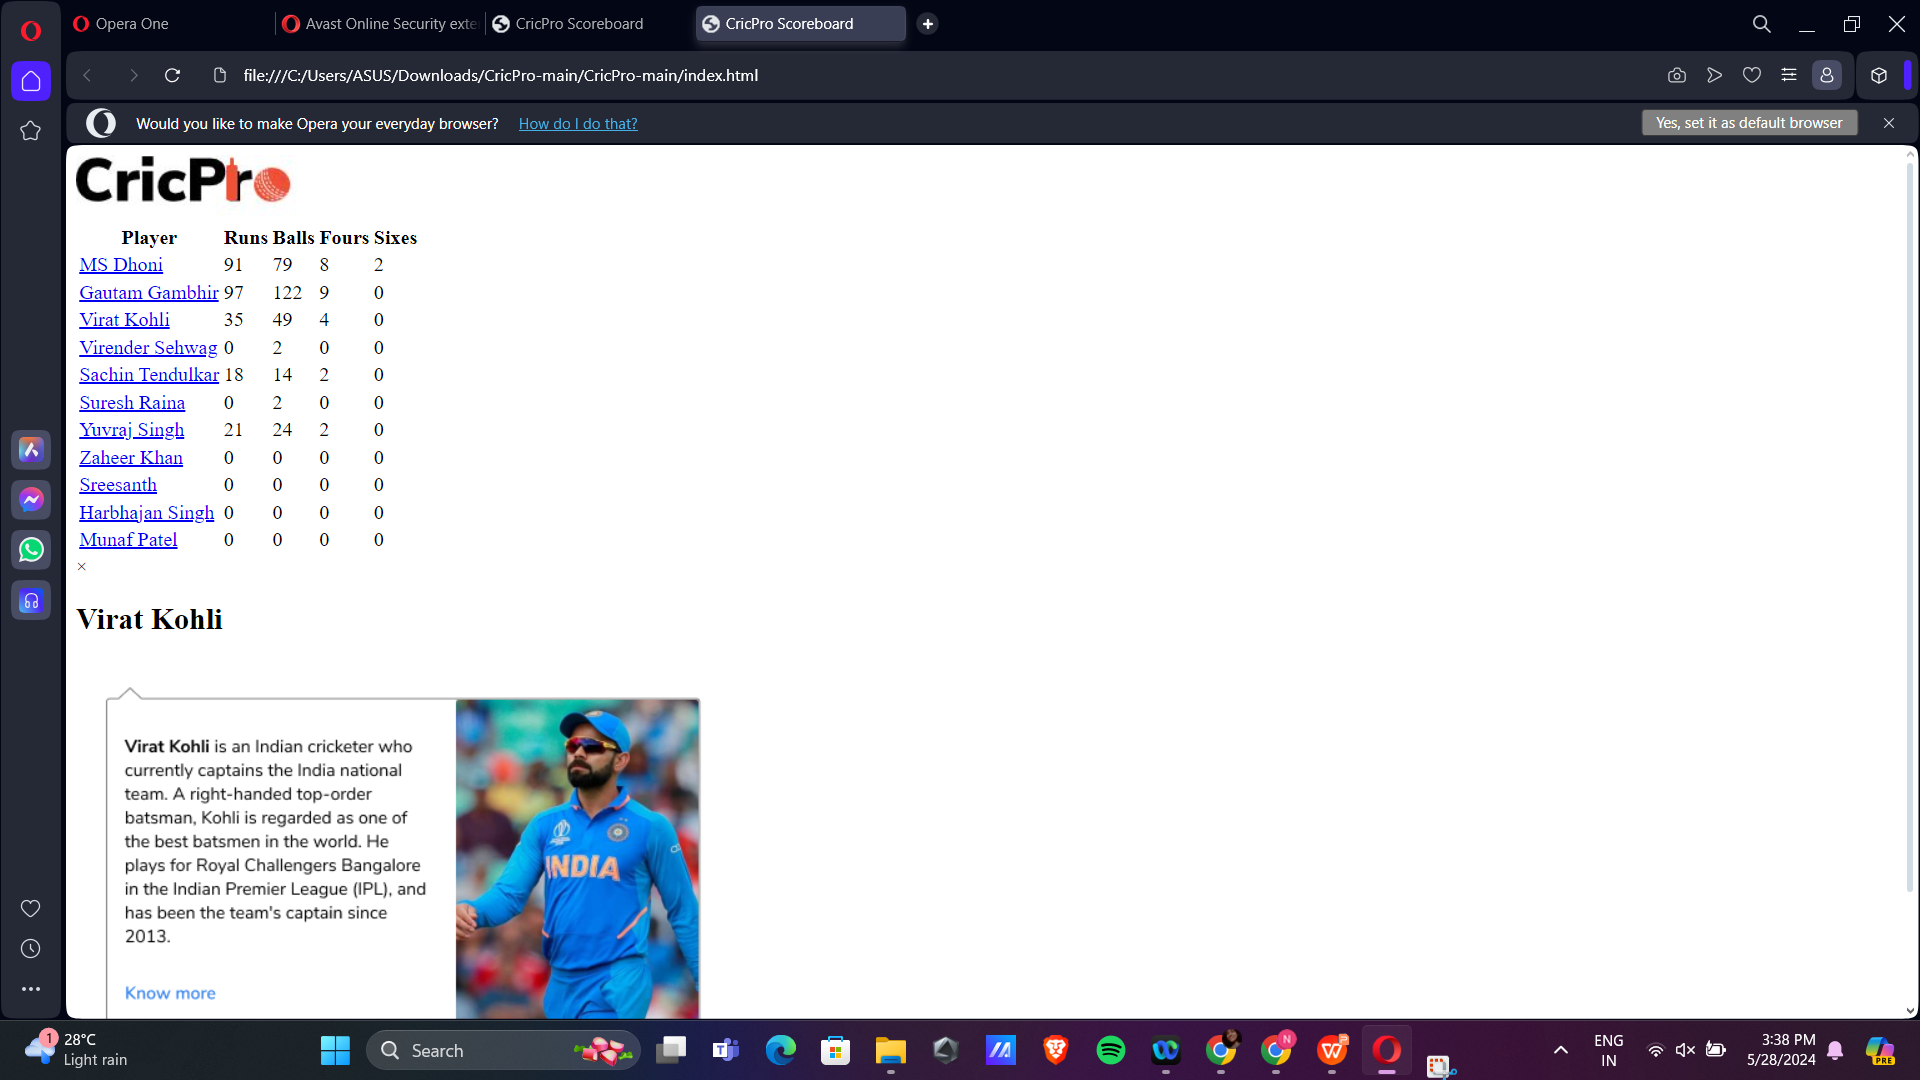
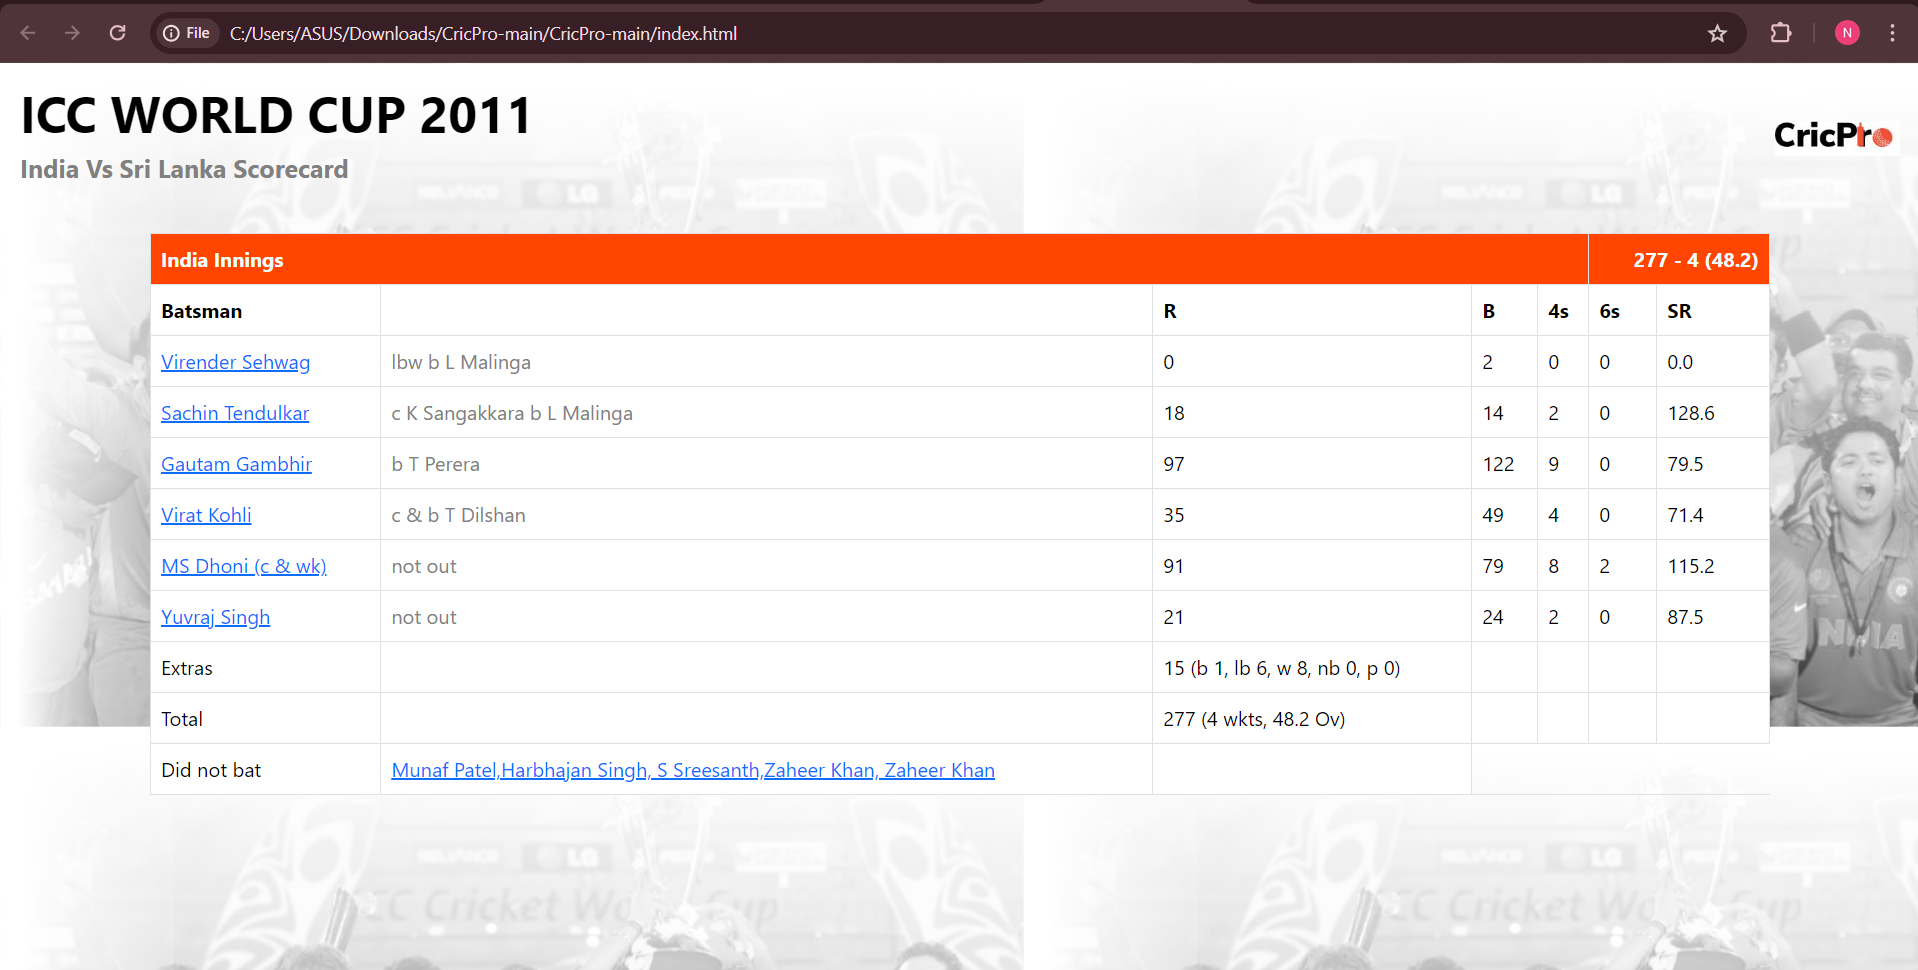
Add files via upload

diff --git a/index.html b/index.html
@@ -1,0 +1,220 @@
+<!DOCTYPE html>
+<html lang="en">
+<head>
+  <meta charset="UTF-8">
+  <meta name="viewport" content="width=device-width, initial-scale=1.0">
+  <title>CricPro Scoreboard</title>
+  <link href="https://cdn.jsdelivr.net/npm/bootstrap@5.3.3/dist/css/bootstrap.min.css" rel="stylesheet" integrity="sha384-QWTKZyjpPEjISv5WaRU9OFeRpok6YctnYmDr5pNlyT2bRjXh0JMhjY6hW+ALEwIH" crossorigin="anonymous">
+  <link rel="stylesheet" href="styles.css">
+</head>
+<body background="https://s3.ap-south-1.amazonaws.com/kalvi-education.github.io/front-end-web-development/cricpro-bg.png">
+  <div class="container-fluid p-3">
+    <div class="row align-items-center">
+      <div class="col-md-8">
+        <h1 class="text-black" style="font-weight: bolder;">ICC WORLD CUP 2011</h1>
+        <h5 class="text" style="color: gray; font-weight: bold;">India Vs Sri Lanka Scorecard</h5>
+      </div>
+      <div class="col-md-4 text-end">
+        <img src="https://s3.ap-south-1.amazonaws.com/kalvi-education.github.io/front-end-web-development/cricpro-logo.JPG" alt="CricPro Logo" class="img-fluid" style="max-width: 100px;">
+      </div>
+    </div>
+  </div>
+
+  <div class="container my-3">
+    <table class="table table-bordered table-hover">
+      <thead class="bg-orange text-white">
+        <tr>
+          <th colspan="5" style="background-color: orangered;color: azure;">India Innings</th>
+          <th colspan="2" class="text-end" style="background-color: orangered; color: azure;">277 - 4 (48.2)</th>
+        </tr>
+        <tr class="bg-white">
+          <th>Batsman</th>
+          <th></th>
+          <th>R</th>
+          <th>B</th>
+          <th>4s</th>
+          <th>6s</th>
+          <th>SR</th>
+        </tr>
+      </thead>
+      <tbody>
+        <tr>
+          <td><a href="https://s3.ap-south-1.amazonaws.com/kalvi-education.github.io/front-end-web-development/cricpro-gambhir.png',
+            'description" class="player-name" data-player="sehwag">Virender Sehwag</a></td>
+          <td style="color: gray;">lbw b L Malinga</td>
+          <td>0</td>
+          <td>2</td>
+          <td>0</td>
+          <td>0</td>
+          <td>0.0</td>
+        </tr>
+        <tr>
+          <td><a href="#" class="player-name" data-player="tendulkar">Sachin Tendulkar</a></td>
+          <td style="color: gray;">c K Sangakkara b L Malinga</td>
+          <td>18</td>
+          <td>14</td>
+          <td>2</td>
+          <td>0</td>
+          <td>128.6</td>
+        </tr>
+        <tr>
+          <td><a href="#" class="player-name" data-player="gambhir">Gautam Gambhir</a></td>
+          <td style="color: gray;">b T Perera</td>
+          <td>97</td>
+          <td>122</td>
+          <td>9</td>
+          <td>0</td>
+          <td>79.5</td>
+        </tr>
+        <tr>
+          <td><a href="#" class="player-name" data-player="kohli">Virat Kohli</a></td>
+          <td style="color: gray;">c & b T Dilshan </td>
+          <td>35</td>
+          <td>49</td>
+          <td>4</td>
+          <td>0</td>
+          <td>71.4</td>
+        </tr>
+        <tr>
+          <td><a href="#" class="player-name" data-player="dhoni">MS Dhoni (c & wk)</a></td>
+          <td style="color: gray;">not out</td>
+          <td>91</td>
+          <td>79</td>
+          <td>8</td>
+          <td>2</td>
+          <td>115.2</td>
+        </tr>
+        <tr>
+          <td><a href="#" class="player-name" data-player="yuvraj">Yuvraj Singh</a></td>
+          <td style="color: gray;">not out</td>
+          <td>21</td>
+          <td>24</td>
+          <td>2</td>
+          <td>0</td>
+          <td>87.5</td>
+        </tr>
+        <tr>
+          <td>Extras </td>
+          <td></td>
+          <td>15 (b 1, lb 6, w 8, nb 0, p 0)</td> 
+          <td></td>   
+          <td></td>  
+          <td></td>  
+          <td></td>           
+        </tr>
+        <tr>
+          <td>Total </td>
+          <td></td>
+          <td>277 (4 wkts, 48.2 Ov)</td>   
+          <td></td>   
+          <td></td>  
+          <td></td>  
+          <td></td>       
+        </tr>
+        <tr>
+          <td>Did not bat </td>
+          <td><a href="#" class="player-name" data-player="munaf,harbhajan,sreesanth,zaheer,raina">Munaf Patel,Harbhajan Singh, S Sreesanth,Zaheer Khan, Zaheer Khan </a></td>
+          <td></td>           
+        </tr>
+      </tbody>
+    </table>
+  </div>
+
+  <div id="playerModal" class="modal">
+    <div class="modal-dialog">
+      <div class="modal-content">
+        <div class="modal-header">
+          <h5 class="modal-title" id="playerModalLabel">Player Details</h5>
+          <button type="button" class="btn-close" data-bs-dismiss="modal" aria-label="Close"></button>
+        </div>
+        <div class="modal-body" id="playerDetails">
+          <!-- Player details will be populated here -->
+        </div>
+      </div>
+    </div>
+  </div>
+
+  <script>
+    document.querySelectorAll('.player-name').forEach(item => {
+      item.addEventListener('click', event => {
+        event.preventDefault();
+        const playerName = event.target.dataset.player;
+        showPlayerDetails(playerName);
+      });
+    });
+
+    function showPlayerDetails(player) {
+      const playerDetails = {
+        'dhoni': {
+          'name': 'MS Dhoni',
+          'image': 'https://s3.ap-south-1.amazonaws.com/kalvi-education.github.io/front-end-web-development/cricpro-dhoni.png',
+          'description': 'MS Dhoni, the captain cool, played a match-winning knock of 91 not out in the final.'
+        },
+        'gambhir': {
+          'name': 'Gautam Gambhir',
+          'image': 'https://s3.ap-south-1.amazonaws.com/kalvi-education.github.io/front-end-web-development/cricpro-gambhir.png',
+          'description': 'Gautam Gambhir scored a crucial 97 runs that set the platform for India\'s victory.'
+        },
+        'kohli': {
+          'name': 'Virat Kohli',
+          'image': 'https://s3.ap-south-1.amazonaws.com/kalvi-education.github.io/front-end-web-development/cricpro-virat-kohli.png',
+          'description': 'Virat Kohli supported Gambhir well with a steady innings of 35 runs.'
+        },
+        'sehwag': {
+          'name': 'Virender Sehwag',
+          'image': 'https://s3.ap-south-1.amazonaws.com/kalvi-education.github.io/front-end-web-development/cricpro-sehwag.png',
+          'description': 'Virender Sehwag was dismissed early without scoring, but his aggressive intent was clear.'
+        },
+        'tendulkar': {
+          'name': 'Sachin Tendulkar',
+          'image': 'https://s3.ap-south-1.amazonaws.com/kalvi-education.github.io/front-end-web-development/cricpro-sachin.png',
+          'description': 'Sachin Tendulkar, the master blaster, scored 18 runs before being dismissed.'
+        },
+        'raina': {
+          'name': 'Suresh Raina',
+          'image': 'https://s3.ap-south-1.amazonaws.com/kalvi-education.github.io/front-end-web-development/cricpro-suresh-raina.jpg',
+          'description': 'Suresh Raina, the middle-order batsman, did not get much opportunity to bat in the final.'
+        },
+        'yuvraj': {
+          'name': 'Yuvraj Singh',
+          'image': 'https://s3.ap-south-1.amazonaws.com/kalvi-education.github.io/front-end-web-development/cricpro-yuvraj.png',
+          'description': 'Yuvraj Singh, the hero of the tournament, contributed 21 valuable runs.'
+        },
+        'zaheer': {
+          'name': 'Zaheer Khan',
+          'image': 'https://s3.ap-south-1.amazonaws.com/kalvi-education.github.io/front-end-web-development/cricpro-zaheer-khan.jpg',
+          'description': 'Zaheer Khan, the spearhead of the bowling attack, didn\'t get a chance to bat in the final.'
+        },
+        'sreesanth': {
+          'name': 'Sreesanth',
+          'image': 'https://s3.ap-south-1.amazonaws.com/kalvi-education.github.io/front-end-web-development/cricpro-sreeshanth.jpg',
+          'description': 'Sreesanth, known for his pace bowling, didn\'t get a chance to bat in the final.'
+        },
+        'harbhajan': {
+          'name': 'Harbhajan Singh',
+          'image': 'https://s3.ap-south-1.amazonaws.com/kalvi-education.github.io/front-end-web-development/cricpro-harbhajan.jpg',
+          'description': 'Harbhajan Singh, the turbanator, played a crucial role with the ball in the tournament.'
+        },
+        'munaf': {
+          'name': 'Munaf Patel',
+          'image': 'https://s3.ap-south-1.amazonaws.com/kalvi-education.github.io/front-end-web-development/cricpro-munaf-patel.jpg',
+          'description': 'Munaf Patel, the reliable pacer, didn\'t get a chance to bat in the final.'
+        }
+      };
+
+      const details = playerDetails[player];
+      if (details) {
+        document.getElementById('playerDetails').innerHTML = `
+          <h2>${details.name}</h2>
+          <img src="${details.image}" alt="${details.name}" class="img-fluid mb-3">
+          <p>${details.description}</p>
+        `;
+        const modal = new bootstrap.Modal(document.getElementById('playerModal'));
+        modal.show();
+      }
+    }
+  </script>
+  <script src="https://cdn.jsdelivr.net/npm/@popperjs/core@2.11.6/dist/umd/popper.min.js" integrity="sha384-oBqDVmMz4fnFO9gybVuL/Z7GU6hnh49r+IKRj8p6g5Dk5pZdoxI2P6O/sZeRUR/u" crossorigin="anonymous"></script>
+  <script src="https://cdn.jsdelivr.net/npm/bootstrap@5.3.3/dist/js/bootstrap.min.js" integrity="sha384-qjrxC8WMAtH+UsDCD1EdUlfP+qv2pNT9mZz8z38lKI+kG4ErSmMFsyMfJ/l4cvWv" crossorigin="anonymous"></script>
+</body>
+</html>

diff --git a/style.css b/style.css
@@ -5,10 +5,63 @@ body {
   margin: 0;
   padding: 0;
 }
+body {
+  background-image: url('https://s3.ap-south-1.amazonaws.com/kalvi-education.github.io/front-end-web-development/cricpro-bg.png');
+  background-size: cover;
+  font-family: 'Nunito Sans', sans-serif;
+  margin: 0;
+  padding: 0;
+}
 
-.logo {
-  text-align: center;
-  margin: 20px 0;
+.text-white {
+  color: #fff;
+}
+
+.bg-orange {
+  background-color: #ff6600 !important;
+}
+
+.modal-content {
+  background-color: #fefefe;
+  padding: 20px;
+  border: 1px solid #888;
+  width: 100%;
+}
+
+#playerDetails img {
+  width: 100px;
+  height: auto;
+  display: block;
+  margin: 0 auto;
+}
+
+.player-name {
+  color: #0000ee;
+  text-decoration: none;
+}
+
+.player-name:hover {
+  text-decoration: underline;
+}
+
+
+.header {
+  display: flex;
+  justify-content: space-between;
+  align-items: center;
+  padding: 20px;
+}
+
+.title h1 {
+  font-size: 36px;
+  margin: 0;
+  color: #fff;
+}
+
+.title h2 {
+  font-size: 24px;
+  margin: 5px 0 0;
+  color: #fff;
 }
 
 .logo img {
@@ -29,9 +82,24 @@ body {
   text-align: center;
 }
 
-.score-table th {
-  background-color: #4caf50;
+.score-table .table-title {
+  background-color: #ff6600;
   color: white;
+  text-align: left;
+}
+
+.score-table .score {
+  background-color: #ff6600;
+  color: white;
+  text-align: right;
+}
+
+.score-table .sub-header {
+  background-color: #ffffff;
+}
+
+.score-table .sub-header th {
+  text-align: center;
 }
 
 .player-name {
